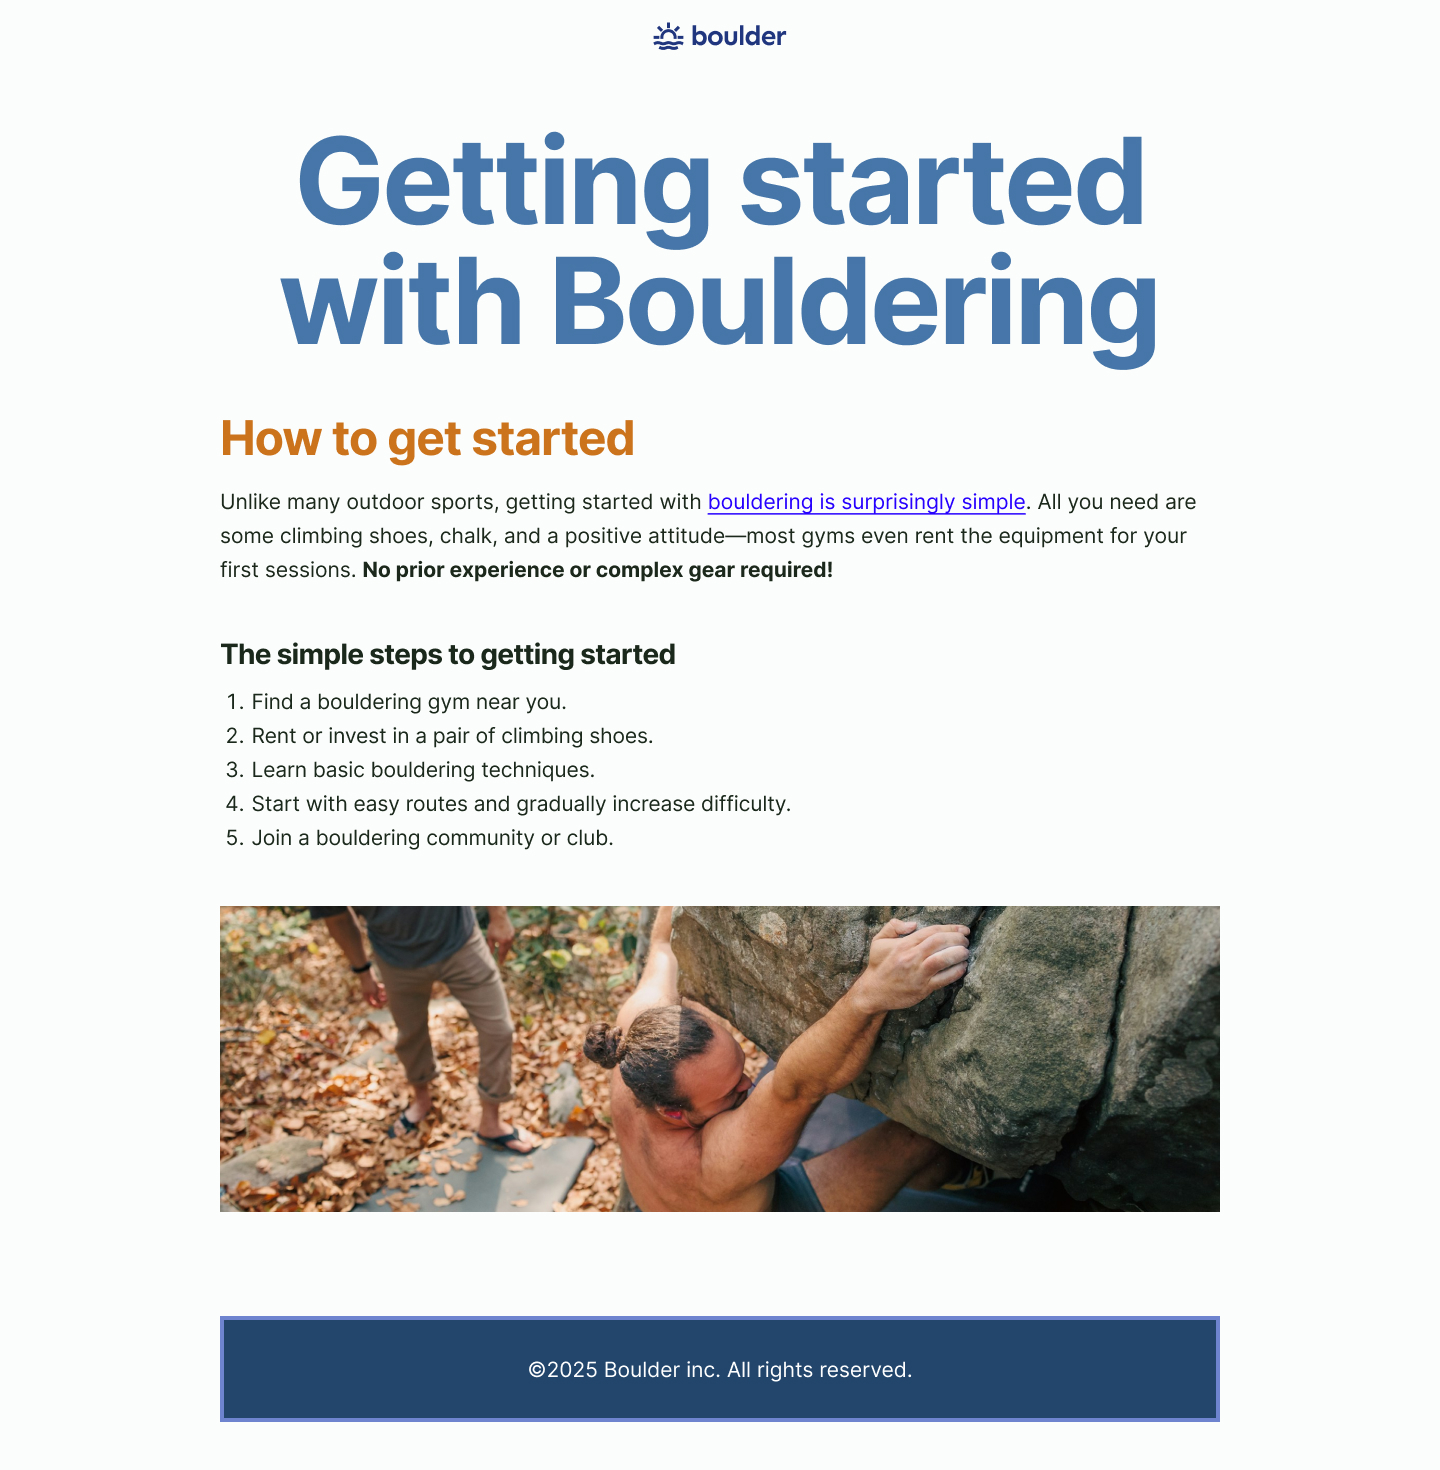
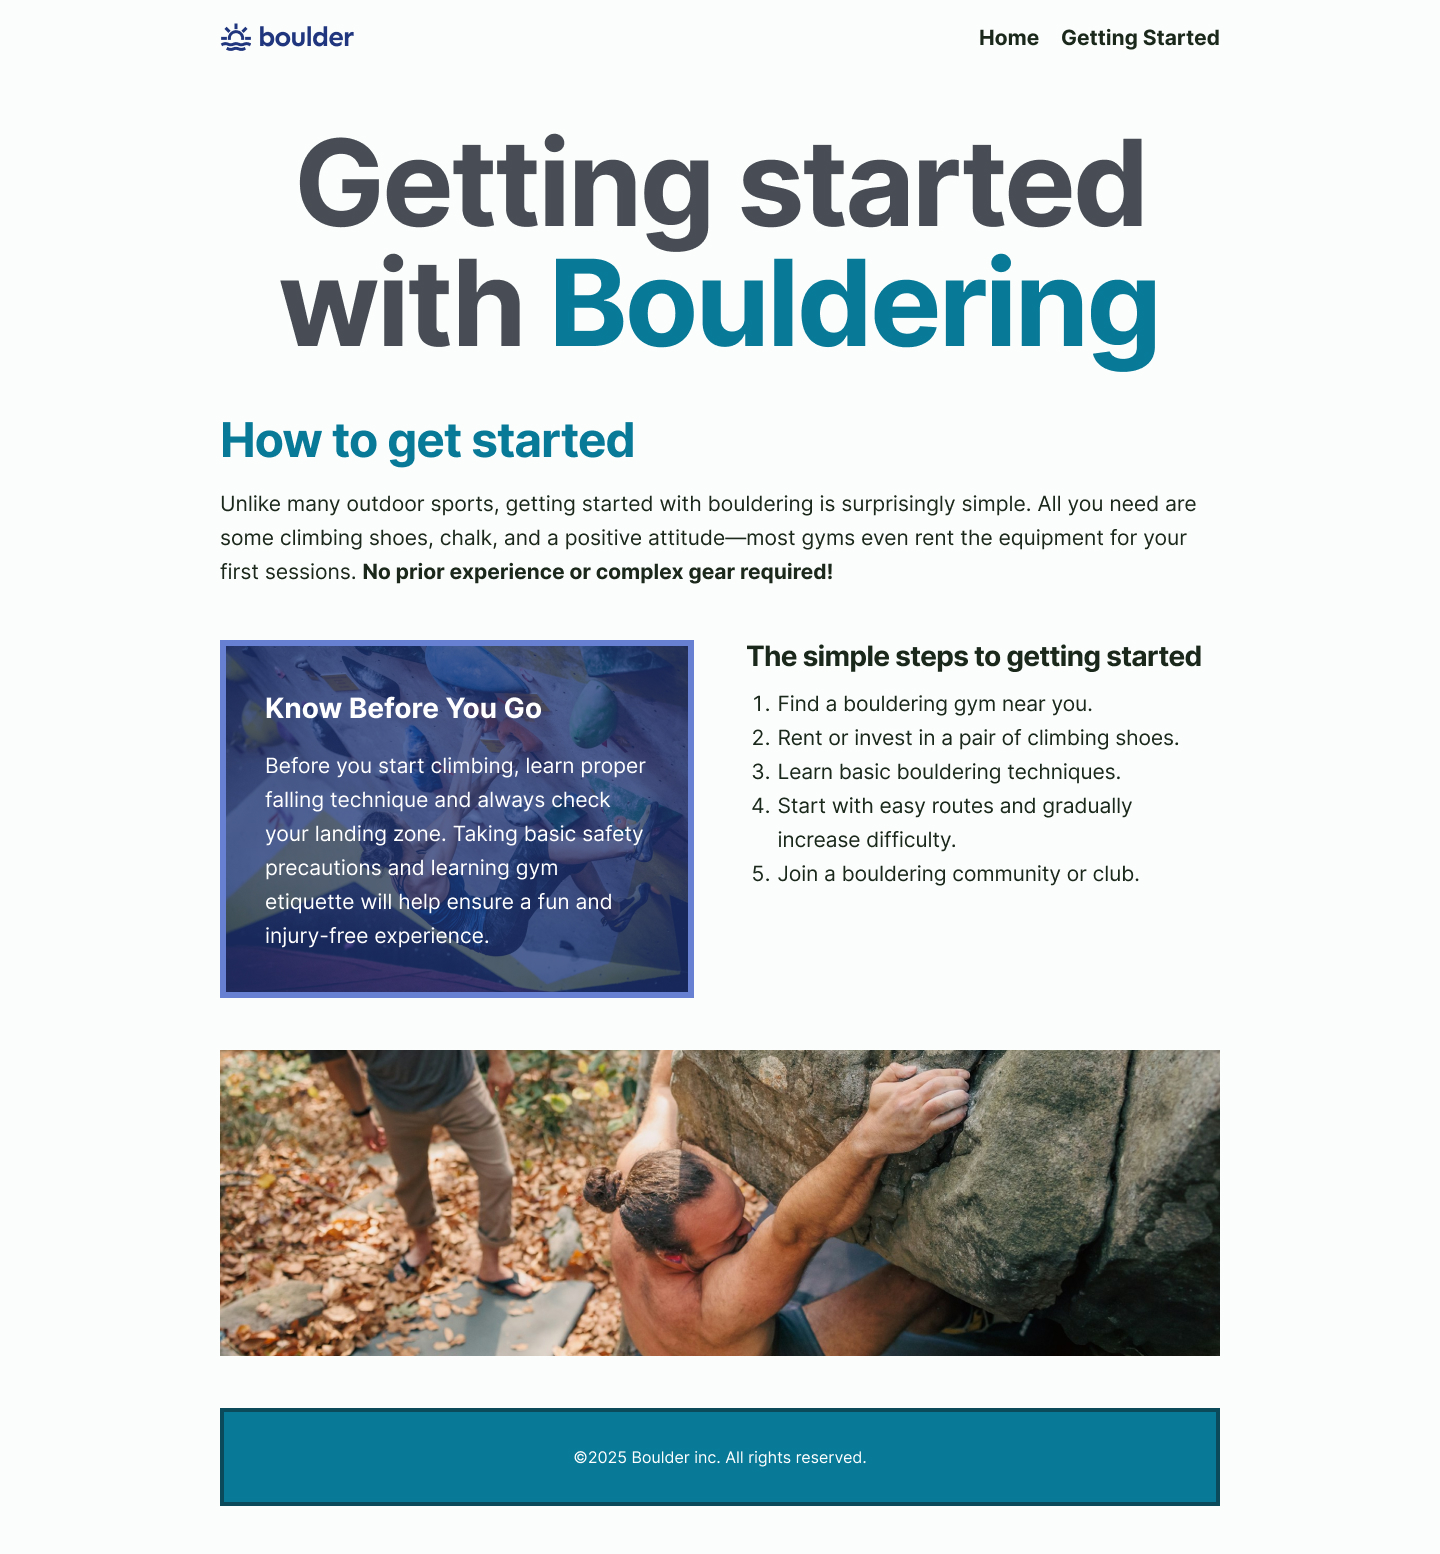
Moved onto v2 of the lesson, added new files for reference and use.

diff --git a/css/style.css b/css/style.css
@@ -25,7 +25,7 @@ p {
 }
 
 section {
-    margin-block: 150px;
+    margin-block: 100px;
 }
 
 footer {

diff --git a/text/getting-started.md b/text/getting-started.md
@@ -4,6 +4,10 @@ How to get started
 
 Unlike many outdoor sports, getting started with bouldering is surprisingly simple. All you need are some climbing shoes, chalk, and a positive attitude—most gyms even rent the equipment for your first sessions. No prior experience or complex gear required!
 
+Know Before You Go
+
+Before you start climbing, learn proper falling technique and always check your landing zone. Taking basic safety precautions and learning gym etiquette will help ensure a fun and injury-free experience.
+
 The simple steps to getting started
 
 Find a bouldering gym near you.

diff --git a/text/homepage.md b/text/homepage.md
@@ -19,6 +19,4 @@ Improves problem solving skills
 Builds mental resilience
 And much more!
 
-Interested? Then find out how to get started with bouldering!
-
 ©2025 Boulder inc. All rights reserved.
